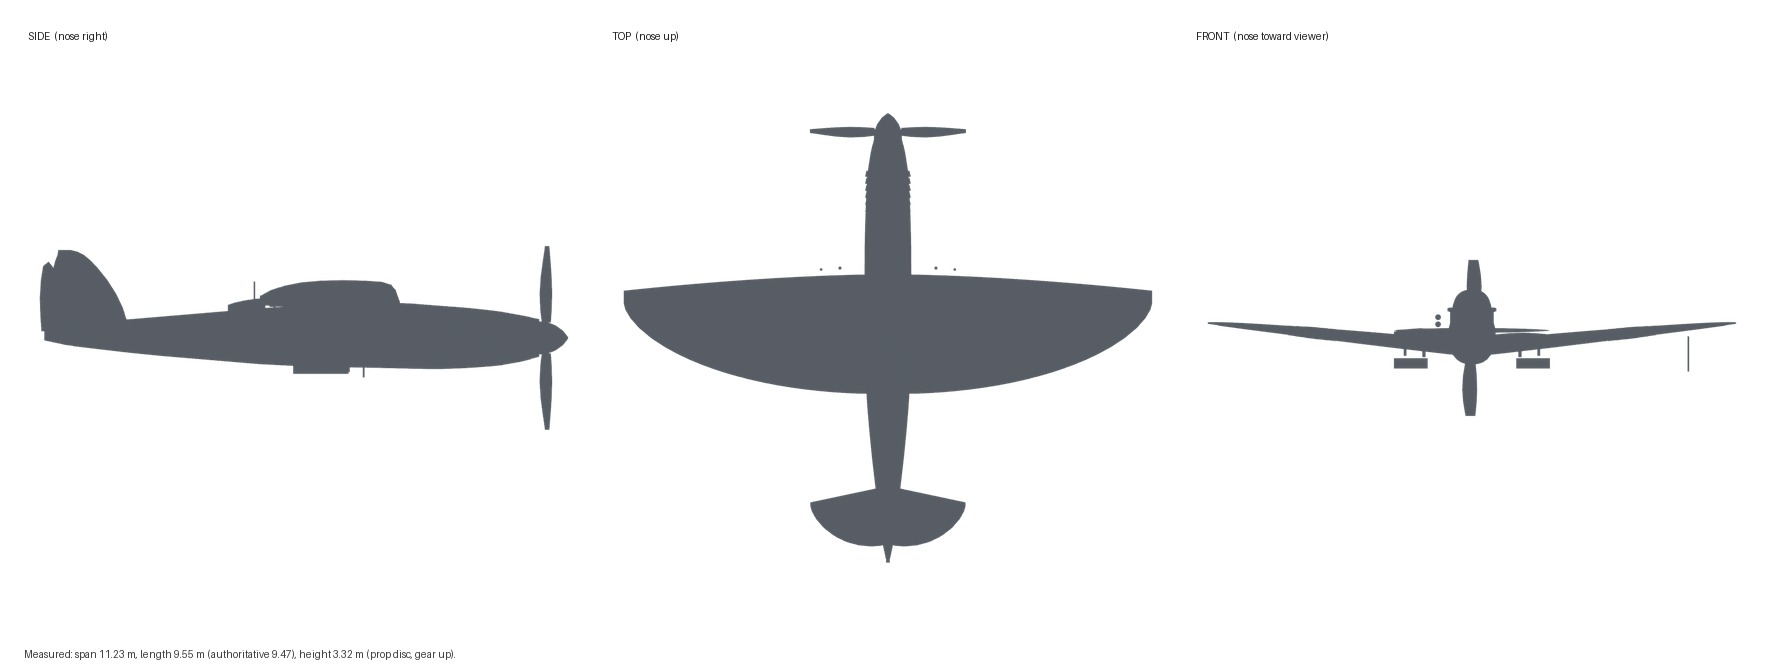
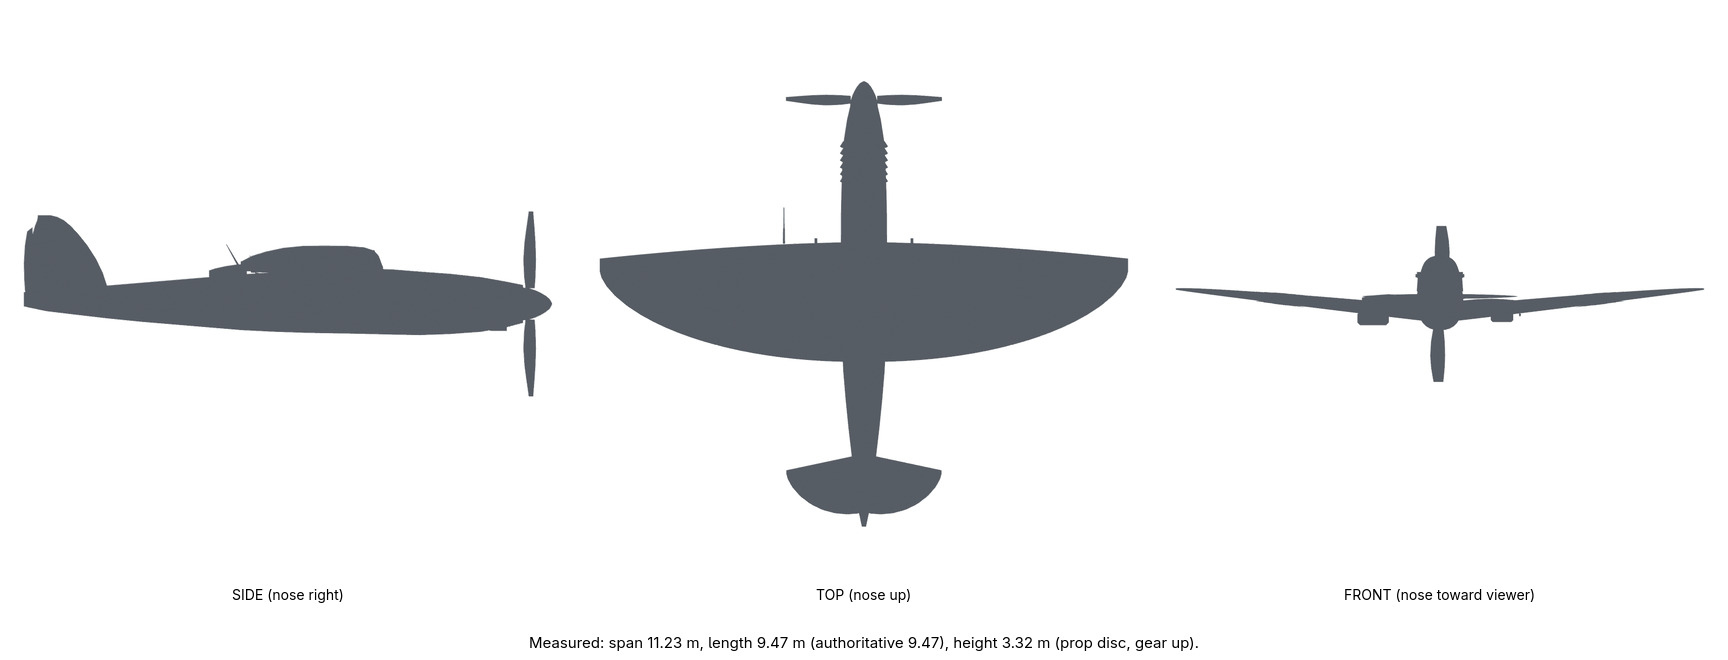
art: Spitfire Mk IX hero pass — nose, exhausts, radiators, silhouette
Reshape against PH-OUQ walkaround photos: pointed Rotol spinner, six ejector exhaust stubs per side, starboard radiator bath and port oil cooler as rounded-rect ducts with dark intake/outlet faces, chin (two-stage supercharger) intake, LF gun fit (20 mm stub + two .303 ports per wing), pitot on the port wing, raking antenna mast + blade aerial, raked tapered gear doors, tweaked canopy framing. Rudder trailing edge trimmed 0.08 m: length now 9.47 m exactly (was 9.55); span unchanged at 11.23 m; 15,732 tris (budget 22k). Validator OK, LOD1/LOD2 rebuilt, takeoff test passes at 832 m. Reference photos stay git-ignored; measurements and licences recorded in docs/art/aircraft-references.md.

diff --git a/tools/blender/build_spitfire.py b/tools/blender/build_spitfire.py
@@ -114,6 +114,58 @@ FUSELAGE_RADIAL_SEGMENTS = 32
 # ---------------------------------------------------------------------------
 
 
+def tapered_tube(name, p0, p1, r0, r1, collection, mat, segments=12):
+    """Tapered tube from p0 to p1 (loft of two circles)."""
+    a = Vector(p0)
+    b = Vector(p1)
+    axis = (b - a)
+    length = axis.length
+    direction = axis / length
+    # Build a local frame perpendicular to the axis.
+    ref = Vector((0.0, 0.0, 1.0)) if abs(direction.z) < 0.9 else Vector((1.0, 0.0, 0.0))
+    u = direction.cross(ref).normalized()
+    v = direction.cross(u).normalized()
+    rings = []
+    for t, radius in ((0.0, r0), (0.55, (r0 + r1) * 0.5), (1.0, r1)):
+        center = a + axis * t
+        ring = [
+            tuple(center + (u * math.cos(2.0 * math.pi * i / segments)
+                            + v * math.sin(2.0 * math.pi * i / segments)) * radius)
+            for i in range(segments)
+        ]
+        rings.append(ring)
+    return loft(name, rings, collection, mat, cap_start=True, cap_end=True,
+                split_angle_deg=40.0)
+
+
+def rounded_rect_ring(y, cx, cz, half_w, half_h, corner, count=6):
+    """Rounded-rectangle ring in the XZ plane at station *y* (for baths/scoops)."""
+    hw = half_w - corner
+    hh = half_h - corner
+    corners = [
+        (cx + hw, cz + hh, 0.0),
+        (cx - hw, cz + hh, 0.5 * math.pi),
+        (cx - hw, cz - hh, math.pi),
+        (cx + hw, cz - hh, 1.5 * math.pi),
+    ]
+    ring = []
+    per = max(2, count // 4 + 1)
+    for cx0, cz0, start in corners:
+        for i in range(per):
+            a = start + (0.5 * math.pi) * i / (per - 1)
+            ring.append((cx0 + corner * math.cos(a), y, cz0 + corner * math.sin(a)))
+    return ring
+
+
+def arc_ring(y, cx, cz, radius_x, radius_z, start_deg, end_deg, count=18, flatten_top=True):
+    """Elliptical arc in the XZ plane at station *y* (for the chin intake)."""
+    ring = []
+    for i in range(count):
+        a = math.radians(start_deg + (end_deg - start_deg) * i / (count - 1))
+        ring.append((cx + radius_x * math.cos(a), y, cz + radius_z * math.sin(a)))
+    return ring
+
+
 def section_ring(station, segments: int = FUSELAGE_RADIAL_SEGMENTS):
     y, width, z_top, z_bottom = station
     return superellipse(y, width, z_top, z_bottom, count=segments, exponent=2.35)
@@ -293,10 +345,12 @@ def build_fin(exterior, mat):
     loft("Fin", rings, exterior, mat, cap_start=True, cap_end=True,
          split_angle_deg=32.0)
 
+    # Trailing edge trimmed 0.08 m forward so overall length matches the
+    # authoritative 9.47 m (measured from the spinner tip to this edge).
     rudder_outline = [
         (-4.88, 0.12), (-4.90, 0.45), (-4.92, 0.78), (-4.93, 1.05),
-        (-4.94, 1.28), (-5.02, 1.38), (-5.12, 1.30), (-5.16, 1.05),
-        (-5.18, 0.72), (-5.17, 0.40), (-5.15, 0.12),
+        (-4.94, 1.28), (-4.94, 1.38), (-5.04, 1.30), (-5.08, 1.05),
+        (-5.10, 0.72), (-5.09, 0.40), (-5.07, 0.12),
     ]
     hinge_z = 0.62
     hinge_y = -4.88
@@ -363,13 +417,19 @@ def build_gear(exterior, metal, tyre):
             axis=(1.0, 0.0, 0.0),
             vertices=16,
         )
-        door = box(
-            f"GearDoor{suffix}",
-            (side * 1.00, 0.85, -0.78),
-            (0.035, 0.52, 0.52),
-            exterior,
-            metal,
-        )
+        # Leg door: a slim, raked panel behind the leg (Spitfire fit),
+        # built as a tapered slab rather than a box.
+        door_rings = [
+            (0.98, side * 0.94, -0.50, 0.016, 0.075),
+            (0.80, side * 0.95, -0.66, 0.018, 0.140),
+            (0.60, side * 0.96, -0.83, 0.018, 0.150),
+            (0.42, side * 0.97, -0.95, 0.016, 0.095),
+        ]
+        door = loft(f"GearDoor{suffix}",
+                    [rounded_rect_ring(y, cx, cz, hw, hh, 0.012, count=4)
+                     for y, cx, cz, hw, hh in door_rings],
+                    exterior, metal, cap_start=True, cap_end=True,
+                    split_angle_deg=30.0)
         for part in (leg, wheel, hub, door):
             parent_keep(part, pivot)
 
@@ -397,9 +457,11 @@ def build_gear(exterior, metal, tyre):
 
 
 def build_propeller(exterior, metal, dark):
-    # Build the spinner as a loft of circular rings.
+    # Spinner: long, gently convex taper to a near-pointed tip, matching the
+    # Mk IX's early pointed Rotol spinner (see PH-OUQ photos).
     rings = []
-    for y, radius in ((3.84, 0.30), (4.00, 0.285), (4.14, 0.23), (4.28, 0.13), (4.37, 0.015)):
+    for y, radius in ((3.84, 0.295), (3.96, 0.280), (4.07, 0.245), (4.17, 0.198),
+                      (4.26, 0.145), (4.33, 0.085), (4.37, 0.012)):
         rings.append([
             (radius * math.cos(2.0 * math.pi * i / 32.0), y,
              radius * math.sin(2.0 * math.pi * i / 32.0))
@@ -474,10 +536,10 @@ def canopy_ring(y, width, top, base=0.60, count=21, exponent=2.4):
 def build_canopy(exterior, glass, frame, airframe):
     stations = [
         # (y, half width, top z)
-        (1.31, 0.24, 0.66), (1.24, 0.31, 0.86), (1.16, 0.36, 0.95),
-        (1.00, 0.39, 1.00), (0.70, 0.40, 1.02), (0.30, 0.40, 1.03),
-        (-0.10, 0.39, 1.02), (-0.45, 0.37, 0.99), (-0.75, 0.33, 0.93),
-        (-1.00, 0.28, 0.85), (-1.18, 0.21, 0.75),
+        (1.32, 0.225, 0.665), (1.25, 0.295, 0.855), (1.17, 0.345, 0.945),
+        (1.00, 0.385, 1.000), (0.70, 0.398, 1.025), (0.30, 0.398, 1.030),
+        (-0.10, 0.388, 1.025), (-0.45, 0.362, 0.990), (-0.75, 0.325, 0.925),
+        (-1.00, 0.272, 0.850), (-1.19, 0.200, 0.750),
     ]
     count = 21
     rings = [canopy_ring(y, width, top, count=count) for y, width, top in stations]
@@ -803,37 +865,111 @@ def build_panel_lines(exterior, mats):
 def build_details(exterior, mats):
     metal = mats["metal"]
     dark = mats["dark"]
+    dark_ds = mats["dark_ds"]
 
-    # Exhaust stacks: six per side.
+    # Exhaust ejector stubs: six per side, angled outward and slightly aft,
+    # with the rolled outer flare of the ejectors (photo reference: PH-OUQ_03/14).
     for side in (-1.0, 1.0):
         for i in range(6):
-            y = 3.08 - i * 0.15
-            box(f"Exhaust{side:+.0f}_{i}",
-                (side * 0.435, y, 0.14), (0.075, 0.13, 0.085),
-                exterior, dark, rotation=(0.0, 0.0, math.radians(side * 12.0)))
+            y = 3.08 - i * 0.148
+            base = (side * 0.415, y, 0.145)
+            # Outward ~25 deg, slightly down and aft.
+            dx, dy, dz = side * 0.062, -0.115, -0.018
+            tip = (base[0] + dx, base[1] + dy, base[2] + dz)
+            tapered_tube(f"Exhaust{side:+.0f}_{i}", base, tip, 0.030, 0.040,
+                         exterior, dark, segments=12)
 
-    # Radiator and oil cooler under the wings.
+    # Radiator bath (starboard) and oil cooler (port): long, deep rectangular
+    # ducts slung under the wings, open intake faces forward, rectangular
+    # outlet at the rear (PH-OUQ_15/16/19).
+    bath_rings = [
+        (0.62, 1.42, -0.245, 0.27, 0.075, 0.045),
+        (0.30, 1.42, -0.295, 0.325, 0.135, 0.060),
+        (-0.15, 1.42, -0.305, 0.335, 0.150, 0.060),
+        (-0.60, 1.42, -0.295, 0.315, 0.135, 0.055),
+        (-0.92, 1.42, -0.265, 0.265, 0.095, 0.040),
+    ]
+    rings = [rounded_rect_ring(y, cx, cz, hw, hh, corner=c) for y, cx, cz, hw, hh, c in bath_rings]
+    loft("RadiatorBath", rings, exterior, mats["airframe"], cap_start=True, cap_end=True,
+         split_angle_deg=30.0)
+    # Dark intake and outlet faces, slightly proud of the caps.
+    disc_mesh("RadiatorIntake", (1.42, 0.626, -0.245),
+              rounded_rect_ring(0.626, 1.42, -0.245, 0.215, 0.052, 0.030, count=4),
+              exterior, dark_ds)
+    disc_mesh("RadiatorOutlet", (1.42, -0.926, -0.265),
+              rounded_rect_ring(-0.926, 1.42, -0.265, 0.210, 0.070, 0.032, count=4),
+              exterior, dark_ds)
+    oil_rings = [
+
+        (0.42, -1.32, -0.245, 0.20, 0.055, 0.030),
+        (0.15, -1.32, -0.275, 0.235, 0.095, 0.040),
+        (-0.25, -1.32, -0.280, 0.240, 0.105, 0.040),
+        (-0.60, -1.32, -0.270, 0.220, 0.090, 0.035),
+        (-0.72, -1.32, -0.245, 0.190, 0.065, 0.028),
+    ]
+    rings = [rounded_rect_ring(y, cx, cz, hw, hh, corner=c) for y, cx, cz, hw, hh, c in oil_rings]
+    loft("OilCooler", rings, exterior, mats["airframe"], cap_start=True, cap_end=True,
+         split_angle_deg=30.0)
+    disc_mesh("OilCoolerIntake", (-1.32, 0.426, -0.245),
+              rounded_rect_ring(0.426, -1.32, -0.245, 0.155, 0.035, 0.020, count=4),
+              exterior, dark_ds)
+    disc_mesh("OilCoolerOutlet", (-1.32, -0.726, -0.245),
+              rounded_rect_ring(-0.726, -1.32, -0.245, 0.150, 0.045, 0.020, count=4),
+              exterior, dark_ds)
+
+    # Carburettor ("chin") intake under the nose — the Merlin two-stage
+    # two-speed supercharger signature on the LF Mk IX. Half-round scoop with
+    # a dark forward-facing mouth.
+    chin_rings = [
+        arc_ring(3.02, 0.0, -0.33, 0.125, 0.10, 180, 360, count=14),
+        arc_ring(3.28, 0.0, -0.315, 0.175, 0.170, 180, 360, count=14),
+        arc_ring(3.56, 0.0, -0.305, 0.165, 0.180, 180, 360, count=14),
+    ]
+    loft("ChinIntake", chin_rings, exterior, mats["airframe"],
+         cap_start=True, cap_end=False, split_angle_deg=30.0)
+    disc_mesh("ChinIntakeMouth", (0.0, 3.555, -0.305),
+              arc_ring(3.555, 0.0, -0.305, 0.150, 0.165, 180, 360, count=16),
+              exterior, dark_ds)
+
+    # Wing guns: LF Mk IX fit — one 20 mm Hispano cannon stub inboard of the
+    # .303 Brownings (two per wing). Cannon protrudes; .303s are flush ports.
     for side in (-1.0, 1.0):
-        box(f"Radiator{side:+.0f}", (side * 1.30, -0.10, -0.54),
-            (0.72, 1.00, 0.22), exterior, dark)
-        box(f"RadiatorFace{side:+.0f}", (side * 1.30, 0.41, -0.54),
-            (0.62, 0.03, 0.16), exterior, metal)
+        for x, is_cannon in ((1.02, True), (1.47, False), (1.86, False)):
+            t = x / SPAN_HALF
+            _, _, le_y, zc = wing_planform(side * t)
+            if is_cannon:
+                tapered_tube(
+                    f"GunCannon{side:+.0f}",
+                    (side * x, le_y + 0.10, zc),
+                    (side * x, le_y - 0.035, zc),
+                    0.030, 0.030, exterior, mats["metal"], segments=12,
+                )
+                disc_mesh(f"GunCannonMuzzle{side:+.0f}", (side * x, le_y + 0.102, zc),
+                          [(side * x + 0.030 * math.cos(a), le_y + 0.103,
+                             zc + 0.030 * math.sin(a)) for a in
+                           (2 * math.pi * i / 12 for i in range(12))],
+                          exterior, dark_ds)
+            else:
+                disc_mesh(f"GunPort{side:+.0f}_{x:.2f}", (side * x, le_y + 0.002, zc),
+                          [(side * x + 0.021 * math.cos(a), le_y + 0.004,
+                             zc + 0.021 * math.sin(a)) for a in
+                           (2 * math.pi * i / 10 for i in range(10))],
+                          exterior, dark_ds)
 
-    # Cannon and machine-gun barrels in the wing leading edge.
-    for side in (-1.0, 1.0):
-        for x, radius, length in ((1.02, 0.035, 0.44), (1.42, 0.030, 0.38)):
-            cylinder_between(
-                f"Gun{side:+.0f}_{x:.2f}",
-                (side * x, 0.86, -0.19),
-                (side * x, 0.86 + length, -0.19),
-                radius, exterior, metal, vertices=10,
-            )
+    # Pitot head on the port wing leading edge, roughly 30 % semi-span.
+    t_pitot = 1.70 / SPAN_HALF
+    _, _, le_y, _ = wing_planform(-t_pitot)
+    tapered_tube("PitotMast", (-1.70, le_y + 0.01, -0.225), (-1.70, le_y + 0.34, -0.238),
+                 0.024, 0.020, exterior, mats["metal"], segments=10)
+    tapered_tube("Pitot", (-1.70, le_y + 0.30, -0.238), (-1.70, le_y + 0.78, -0.26),
+                 0.013, 0.010, exterior, mats["metal"], segments=8)
 
-    # Pitot under the left wingtip and a small antenna mast.
-    cylinder_between("Pitot", (-4.6, 0.30, -0.34), (-4.6, 1.05, -0.34),
-                     0.018, exterior, metal, vertices=8)
-    cylinder_between("AntennaMast", (0.0, -1.30, 0.70), (0.0, -1.30, 1.02),
-                     0.014, exterior, dark, vertices=8)
+    # Antenna mast: raking back from the spine behind the canopy, with a small
+    # blade aerial ahead of it (PH-OUQ_11/12/18).
+    tapered_tube("AntennaMast", (0.0, -1.26, 0.70), (0.0, -1.47, 1.07),
+                 0.017, 0.005, exterior, dark, segments=8)
+    tapered_tube("AntennaBlade", (0.0, -0.97, 0.70), (0.0, -1.05, 0.87),
+                 0.011, 0.004, exterior, dark, segments=6)
 
 # ---------------------------------------------------------------------------
 # Main
@@ -925,6 +1061,8 @@ def main():
         "metal": material("metal", (0.46, 0.48, 0.46), 0.32, 0.75),
         "spinner": material("spinner", (0.38, 0.46, 0.48), 0.55, 0.10),
         "dark": material("dark", (0.055, 0.060, 0.055), 0.78, 0.15),
+        "dark_ds": material("dark_ds", (0.055, 0.060, 0.055), 0.78, 0.15,
+                            double_sided=True),
         "tyre": material("tyre", (0.025, 0.025, 0.025), 0.95, 0.0),
         "glass": material("glass", (0.28, 0.36, 0.40), 0.05, 0.25, alpha=0.55,
                           double_sided=True),

diff --git a/docs/art/aircraft-references.md b/docs/art/aircraft-references.md
@@ -58,14 +58,48 @@ Silhouette overlays (measured 2026-11-27):
 | Wikimedia Commons, `File:Spitfire MKIX.jpg` — https://commons.wikimedia.org/wiki/File:Spitfire_MKIX.jpg | Mk IX nose, spinner, 4-blade prop and canopy side profile | **CC BY-SA 3.0** (B. Huber) | no | reference-only; the overlay is a local review artifact, never committed |
 
 The Mk Vb drawing and the Mk IX profile are scaled to the authoritative span/length
-and overlaid with `tools/blender/render_silhouette.py`. Measured result: span 11.23 m,
-length 9.55 m (0.08 m / 0.85% over the 9.47 m authoritative figure, under half a tyre
-width), height 3.32 m with the prop disc and gear up. The side view matches the drawing
-along the fuselage within a few centimetres; the top view's outer-wing chord is within
-~0.2 m and the root is ~0.3 m narrower, which is the Mk Vb's wing-root fairing rather
-than a planform error (the blockout's wing area is 22.5 m² against the published
-22.49 m²). The 8 cm length is accepted for now; trim the rudder trailing edge if a
-later pass needs an exact figure.
+and overlaid with `tools/blender/render_silhouette.py`. Measured 2026-11-28 after the
+hero pass: span 11.23 m, length 9.47 m (exact; the rudder trailing edge was trimmed
+0.08 m to reach it), height 3.32 m with the prop disc and gear up. The side view matches
+the drawing along the fuselage within a few centimetres; the top view's outer-wing chord
+is within ~0.2 m and the root is ~0.3 m narrower, which is the Mk Vb's wing-root fairing
+rather than a planform error (the blockout's wing area is 22.5 m² against the published
+22.49 m²). The silhouette sheet is `docs/media/aircraft/spitfire-mk9-silhouette.jpg`.
+
+### Hero pass intake (2026-11-28)
+
+Hero-pass reference photos were downloaded to the git-ignored
+`reference-photos/spitfire-mk9/` (licence-filtered via
+`tools/fetch_reference_photos.py`); none of these files are committed. Sources and
+licences, as recorded in `reference-photos/spitfire-mk9/manifest.json`:
+
+| File | Source | Licence | Author | Use |
+| --- | --- | --- | --- | --- |
+| `Antwerp_Supermarine_Spitfire_Mk_IX_PH-OUQ_02/03/04/05/08/11/12/13/14/15/16/18/19.jpg` | Wikimedia Commons, PH-OUQ walkaround (Antwerp, 2019) | CC BY-SA 4.0 | Ad Meskens | whole-aircraft shape, nose/spinner, exhausts, radiator bath, oil cooler, chin intake, canopy framing, gear doors |
+| `IWM_Duxford_..._PV_202_-_geograph.org.uk_-_7102705.jpg` | Wikimedia Commons (geograph) | CC BY-SA 2.0 | Michael Garlick | taxi/gear/stance reference |
+| `IWM_Duxford_..._PV_202_-_geograph.org.uk_-_7102761.jpg` | Wikimedia Commons (geograph) | CC BY-SA 2.0 | Michael Garlick | taxi/gear/stance reference |
+| `A_ground_crewman_helps_a_pilot_..._CNA2829.jpg` | Wikimedia Commons (RAF official photograph) | Public domain | RAF official photographer (Flt Lt Woodbine) | period 1944 Mk IX (titled Mk VIII in the source title; airframe is a Mk IX-type) cockpit/fuselage reference |
+
+What was measured or taken from these photos (and only this):
+
+- Spinner: long, gently convex taper to a near-pointed tip (PH-OUQ_04/05/08/13/14);
+  modelled as a 7-ring loft instead of the previous 5-ring stubbier profile.
+- Exhausts: six ejector stubs per side, angled outward and slightly aft with rolled
+  outer flares (PH-OUQ_03/13/14); modelled as tapered tubes instead of boxes.
+- Radiator bath (starboard) and oil cooler (port): long deep rectangular ducts under
+  the wings with dark forward intake and rear outlet faces (PH-OUQ_13/15/16); modelled
+  as rounded-rectangle lofts instead of boxes.
+- Chin (carburettor) intake: half-round scoop under the nose with dark mouth — the
+  two-stage supercharger signature (PH-OUQ_05/13).
+- Wing guns: LF Mk IX fit, one 20 mm Hispano cannon stub per wing (inboard) plus two
+  flush .303 ports outboard; cannon protrudes, .303s are flat discs (PH-OUQ_04/05).
+- Pitot head on a mast ahead of the port wing leading edge (PH-OUQ_04/05); antenna
+  mast raking back behind the canopy plus a small blade aerial ahead of it
+  (PH-OUQ_11/12/18).
+- Canopy: framing/side plating subtly reshaped; gear doors rebuilt as raked
+  tapered slabs behind the legs (PH-OUQ_14/15).
+- Rudder trailing edge trimmed 0.08 m forward: overall length now 9.47 m exactly.
+- Span 11.23 m and 22.5 m² wing area unchanged; height 3.32 m (prop disc, gear up).
 
 ## Messerschmitt Bf 109 G-6
 

diff --git a/docs/specs/0003-hero-aircraft-pass.md b/docs/specs/0003-hero-aircraft-pass.md
@@ -60,9 +60,9 @@ summarised in [`../art/aircraft-references.md`](../art/aircraft-references.md).
 1. [ ] Reference intake and tooling: git-ignored `reference-photos/`, fetch tool,
        per-aircraft manifest; prune irrelevant downloads. *(done 2026-11-28, see
        changelog)*
-2. [ ] **Spitfire LF Mk IX** hero pass: reshape nose/spinner, exhausts, radiators,
+2. [x] **Spitfire LF Mk IX** hero pass: reshape nose/spinner, exhausts, radiators,
        canopy framing, wing gun ports, antenna mast, gear doors; correct the 0.08 m
-       length excess; re-bake; review sheet.
+       length excess; re-bake; review sheet. *(done 2026-11-28, see changelog)*
 3. [ ] **Bf 109 G-6** hero pass: slim aft fuselage, raise/reshape fin, MG 131 bulges,
        Erla canopy, underwing radiators, exhausts, prop, gear; re-bake; review sheet.
 4. [ ] **Ju 88 A-4** hero pass: raise belly/nacelles to the line drawing, annular
@@ -101,10 +101,18 @@ remaining accepted deviations.
 
 ## Remaining work
 
-Steps 2–6.
+Steps 3–6.
 
 ## Changelog
 
 - 2026-11-28 — branch `feature/0003-hero-aircraft-pass`; `tools/fetch_reference_photos.py`
   and git-ignored `reference-photos/` intake; licence-filtered downloads for the four
   aircraft (Spitfire 16, Bf 109 16, Ju 88 8, P-51D 12 candidates).
+- 2026-11-28 — Spitfire LF Mk IX hero pass: pointed Rotol-style spinner, six ejector
+  exhaust stubs per side, starboard radiator bath + port oil cooler as rounded-rect
+  ducts, chin (two-stage supercharger) intake, LF wing gun fit (20 mm stub + two .303
+  ports per wing), pitot on the port wing, raking antenna mast + blade aerial, raked
+  tapered gear doors, raked/flared canopy framing. Rudder trailing edge trimmed 0.08 m:
+  length now 9.47 m exactly; span 11.23 m; 15,732 tris (budget 22k). Validator OK, no
+  missing contract nodes; LOD1/LOD2 rebuilt; review sheets re-rendered
+  (`docs/media/aircraft/spitfire-mk9.jpg`, `spitfire-mk9-silhouette.jpg`).
